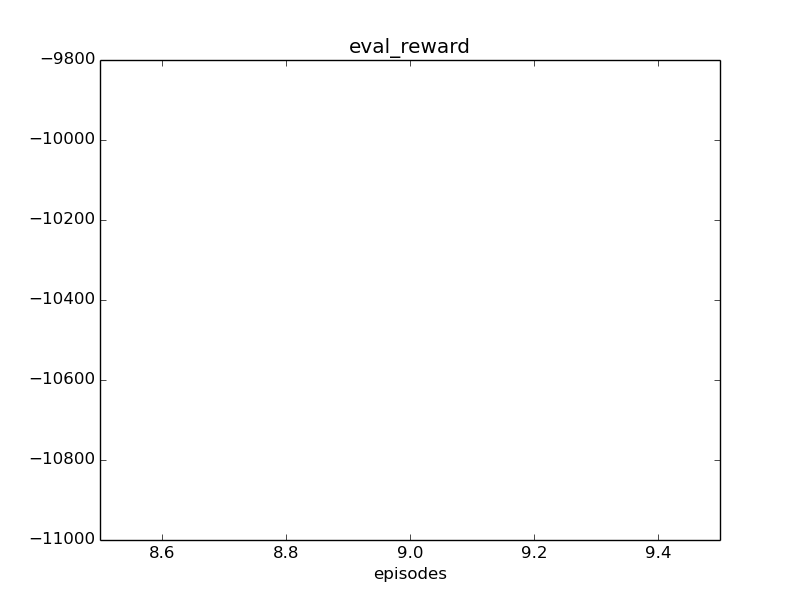
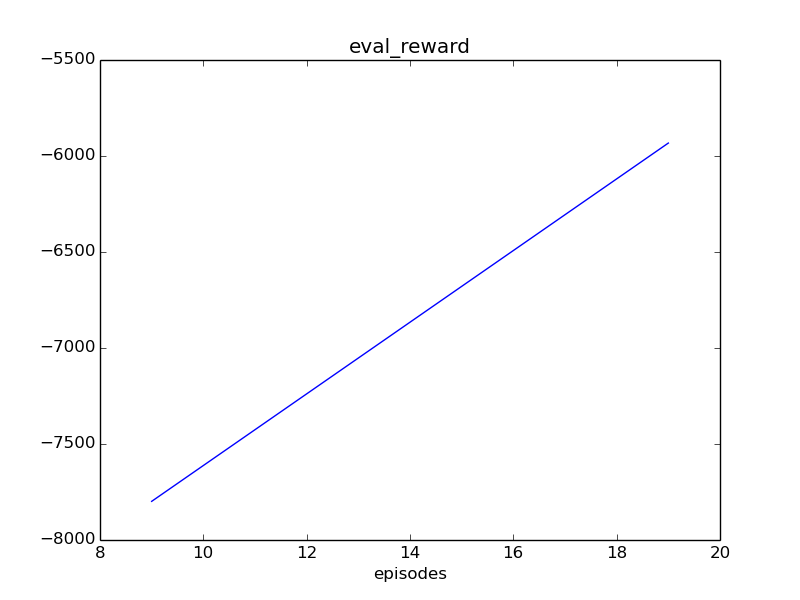
mouse target

diff --git a/out/experiments/001/report/report.html b/out/experiments/001/report/report.html
@@ -1,3 +1,3 @@
 <HTML><BODY><H1>Report</H1>
 <h2>Diagramms</h2>
-<image width=500 src='train_reward.png'><image width=500 src='train_noise.png'><image width=500 src='train_qmax.png'></BODY></HTML>
+<image width=500 src='eval_reward.png'><image width=500 src='train_reward.png'><image width=500 src='train_noise.png'><image width=500 src='train_qmax.png'></BODY></HTML>

diff --git a/env/tentacle_env.py b/env/tentacle_env.py
@@ -1,16 +1,19 @@
 from __future__ import print_function
 
+from mujoco_py import glfw
+
 from core.context import Context
 from core.mujoco_env import ZooMujocoEnv
 
 FRAME_SKIP = 2
-TARGET_RANGE = [1.5, 0., 1.0]
+TARGET_RANGE_XZ = [1.1, 1.0]
 INIT_EVERY_RESETS = 10
 
 
 class TentacleEnv(ZooMujocoEnv):
     def __init__(self):
         self._resets_num = 0
+        self._target_pos = None
         ZooMujocoEnv.__init__(self, frame_skip=FRAME_SKIP)
 
     def _step(self, action):
@@ -21,11 +24,9 @@ class TentacleEnv(ZooMujocoEnv):
 
         done = False
 
+        self._update_target_pos()
         self._update_window_title()
         return ob, r, done, {}
-
-    def _get_obs(self):
-        return self.state_vector()
 
     def reset_model(self):
         self._resets_num += 1
@@ -37,9 +38,9 @@ class TentacleEnv(ZooMujocoEnv):
             qpos = self.model.data.qpos.ravel().copy()
             qvel = self.model.data.qvel.ravel().copy()
 
-        qpos, qvel = self._set_target(qpos, qvel)
-
         self.set_state(qpos, qvel)
+
+        self._target_pos = Context.config['env.target_location_method'](TARGET_RANGE_XZ)
 
         return self._get_obs()
 
@@ -54,13 +55,33 @@ class TentacleEnv(ZooMujocoEnv):
         v.cam.distance = 5.5
         v.cam.elevation = -16
 
-    def _set_target(self, qpos, qvel):
-        tpos = Context.config['env.target_location_method'](TARGET_RANGE)
-        joints = ["target_x", "target_y", "target_z"]
+    def _get_obs(self):
+        return self.state_vector()
 
-        for i, j in enumerate(joints):
+    def _set_target(self, tpos, qpos, qvel):
+        for i, j in enumerate(["target_x", "target_z"]):
             qposadr, qveladr, _ = self.model.joint_adr(j)
             qpos[qposadr] = tpos[i]
             qvel[qveladr] = 0.
-
         return qpos, qvel
+
+    def _update_target_pos(self):
+        if self._target_pos is not None:
+            qpos = self.model.data.qpos.ravel().copy()
+            qvel = self.model.data.qvel.ravel().copy()
+
+            if Context.config['env.target_mouse_control']:
+                tpos = self._target_from_mouse_pos()
+            else:
+                tpos = self._target_pos
+
+            qpos, qvel = self._set_target(tpos, qpos, qvel)
+            self.set_state(qpos, qvel)
+
+    def _target_from_mouse_pos(self):
+        mx, my = glfw.get_cursor_pos(self.viewer.window)
+        w = self.viewer.get_rect().width
+        h = self.viewer.get_rect().height
+        x = 4.7 * (0.5 - mx / w)
+        z = 3.0 * (0.4 - my / h)
+        return [x, z]

diff --git a/exp/demo.py b/exp/demo.py
@@ -1,5 +1,4 @@
 from __future__ import print_function
-import os
 
 from core.context import Context
 from core.ddpg_mind import DdpgMind
@@ -26,6 +25,7 @@ def train_mujoco_tentacle_world():
         'env.agent_path': "../env/assets/tentacle_agent.xml",
         'env.target_location_method': random_target,
         'env.reward_method': default_reward,
+        'env.target_mouse_control': True,
     }
 
     demo_proc = DemoProc(TensorflowPlatform, TentacleWorld, MujocoAgent, DdpgMind, Reporter)

diff --git a/exp/train_001.py b/exp/train_001.py
@@ -25,6 +25,7 @@ def train_mujoco_tentacle_world():
         'env.agent_path': "../env/assets/tentacle_agent.xml",
         'env.target_location_method': random_target,
         'env.reward_method': default_reward,
+        'env.target_mouse_control': True,
 
         'alg.batch_size': 640,
         'alg.buffer_size': 2e5,

diff --git a/env/tentacle_target.py b/env/tentacle_target.py
@@ -2,5 +2,5 @@ import numpy as np
 
 
 def random_target(target_range):
-    x, y, z = np.random.uniform(low=-1, high=+1, size=3) * target_range
-    return np.array([x, y, z])
+    x, z = np.random.uniform(low=-1, high=+1, size=2) * target_range
+    return np.array([x, z])
